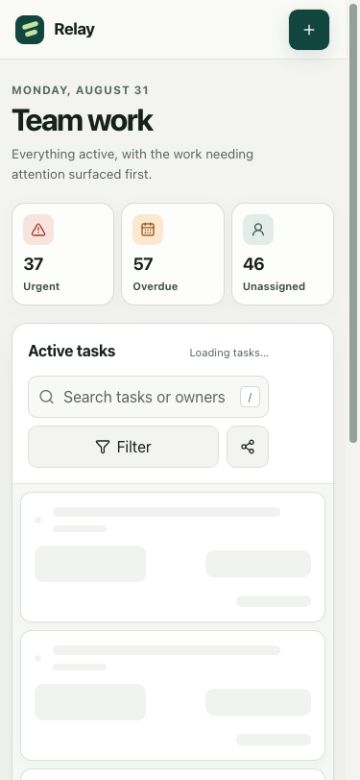
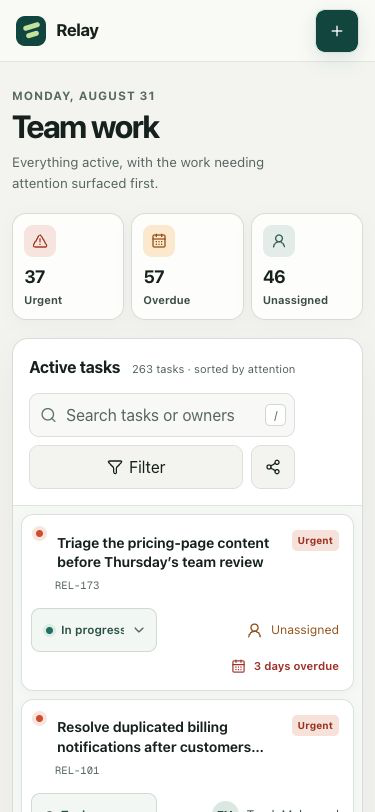
Finalize submission assets

diff --git a/app/layout.tsx b/app/layout.tsx
@@ -21,6 +21,9 @@ export const metadata: Metadata = {
   description:
     'A focused team task system that surfaces urgent, overdue, and unassigned work.',
   applicationName: 'Relay',
+  icons: {
+    icon: '/favicon.svg',
+  },
   openGraph: {
     title: 'Relay — Team work, clearly owned',
     description:
